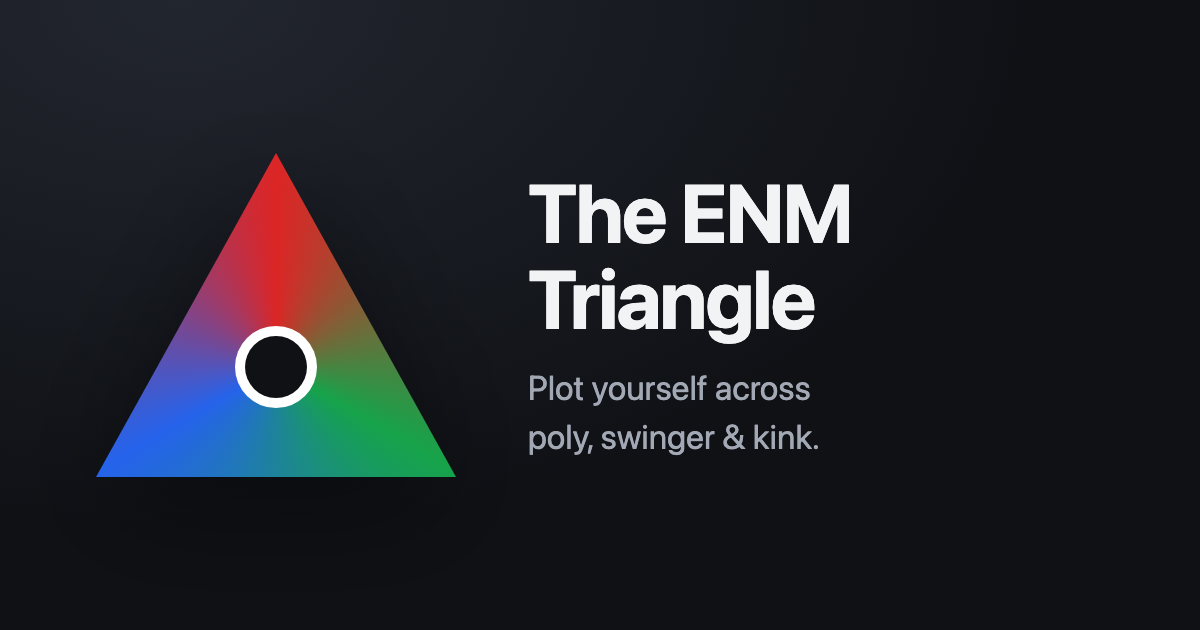
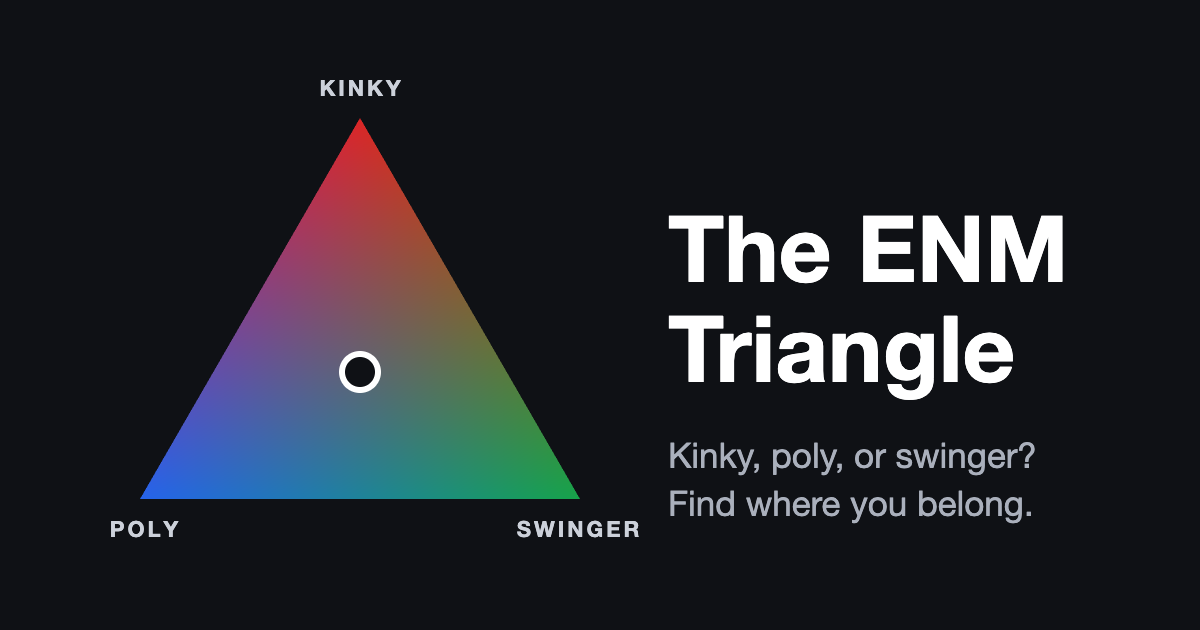
Redesign share image and update the tagline
- og-image.png: rebalanced layout. The old image left a large dead zone
  between the cramped triangle and the text; the triangle is now larger
  and vertically centred with vertex labels, the wordmark and tagline
  sit in a matched block on the right, and margins/gutter are even.
- Meta/OG/Twitter description copy is now
  "Kinky, poly, or swinger? Find where you belong."

Changed region(s): [[0.0617, 0.181, 0.8942, 0.8746], [0.0925, 0.0, 0.2158, 0.0603], [0.2467, 0.1206, 0.3392, 0.1508]]

diff --git a/index.html b/index.html
@@ -4,7 +4,7 @@
   <meta charset="UTF-8">
   <meta name="viewport" content="width=device-width, initial-scale=1">
   <title>The ENM Triangle</title>
-  <meta name="description" content="What kind of ENM person are you? Find out with this short and fun quiz!">
+  <meta name="description" content="Kinky, poly, or swinger? Find where you belong.">
 
   <link rel="icon" href="favicon.svg" type="image/svg+xml">
   <link rel="icon" href="favicon-32.png" sizes="32x32" type="image/png">
@@ -15,7 +15,7 @@
   <meta property="og:type" content="website">
   <meta property="og:site_name" content="The ENM Triangle">
   <meta property="og:title" content="The ENM Triangle">
-  <meta property="og:description" content="What kind of ENM person are you? Find out with this short and fun quiz!">
+  <meta property="og:description" content="Kinky, poly, or swinger? Find where you belong.">
   <meta property="og:url" content="https://enmtriangle.netlify.app/">
   <meta property="og:image" content="https://enmtriangle.netlify.app/og-image.png">
   <meta property="og:image:type" content="image/png">
@@ -26,7 +26,7 @@
   <!-- Twitter / X -->
   <meta name="twitter:card" content="summary_large_image">
   <meta name="twitter:title" content="The ENM Triangle">
-  <meta name="twitter:description" content="What kind of ENM person are you? Find out with this short and fun quiz!">
+  <meta name="twitter:description" content="Kinky, poly, or swinger? Find where you belong.">
   <meta name="twitter:image" content="https://enmtriangle.netlify.app/og-image.png">
   <meta name="twitter:image:alt" content="The ENM Triangle — a triangle shaded red, blue and green with a dot in the middle.">
 
